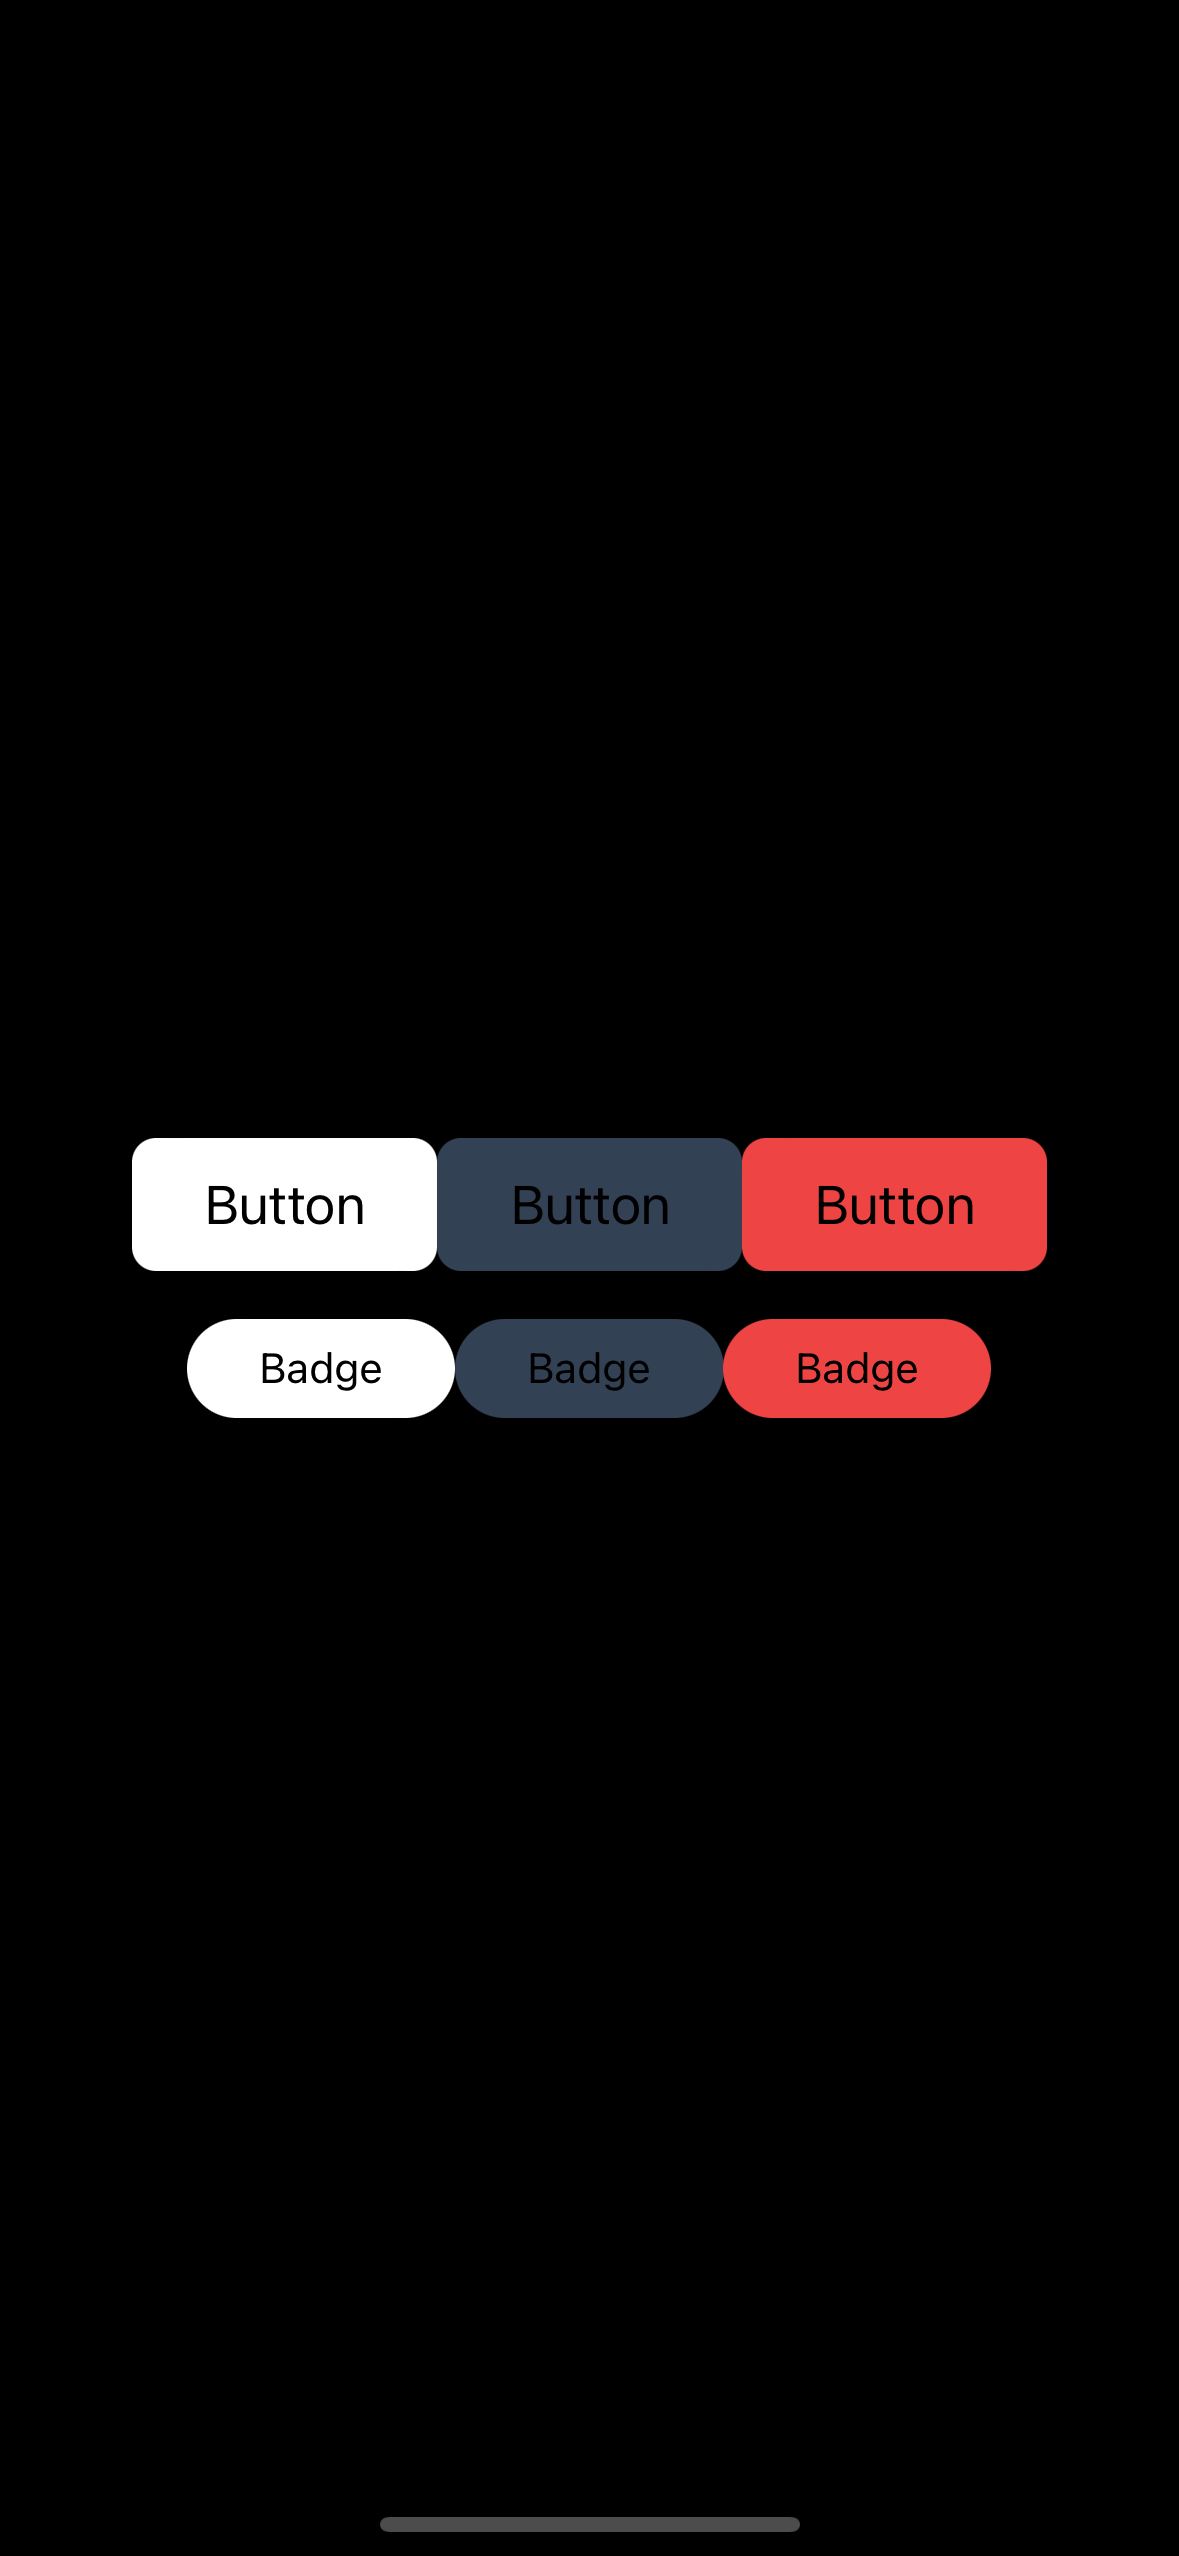
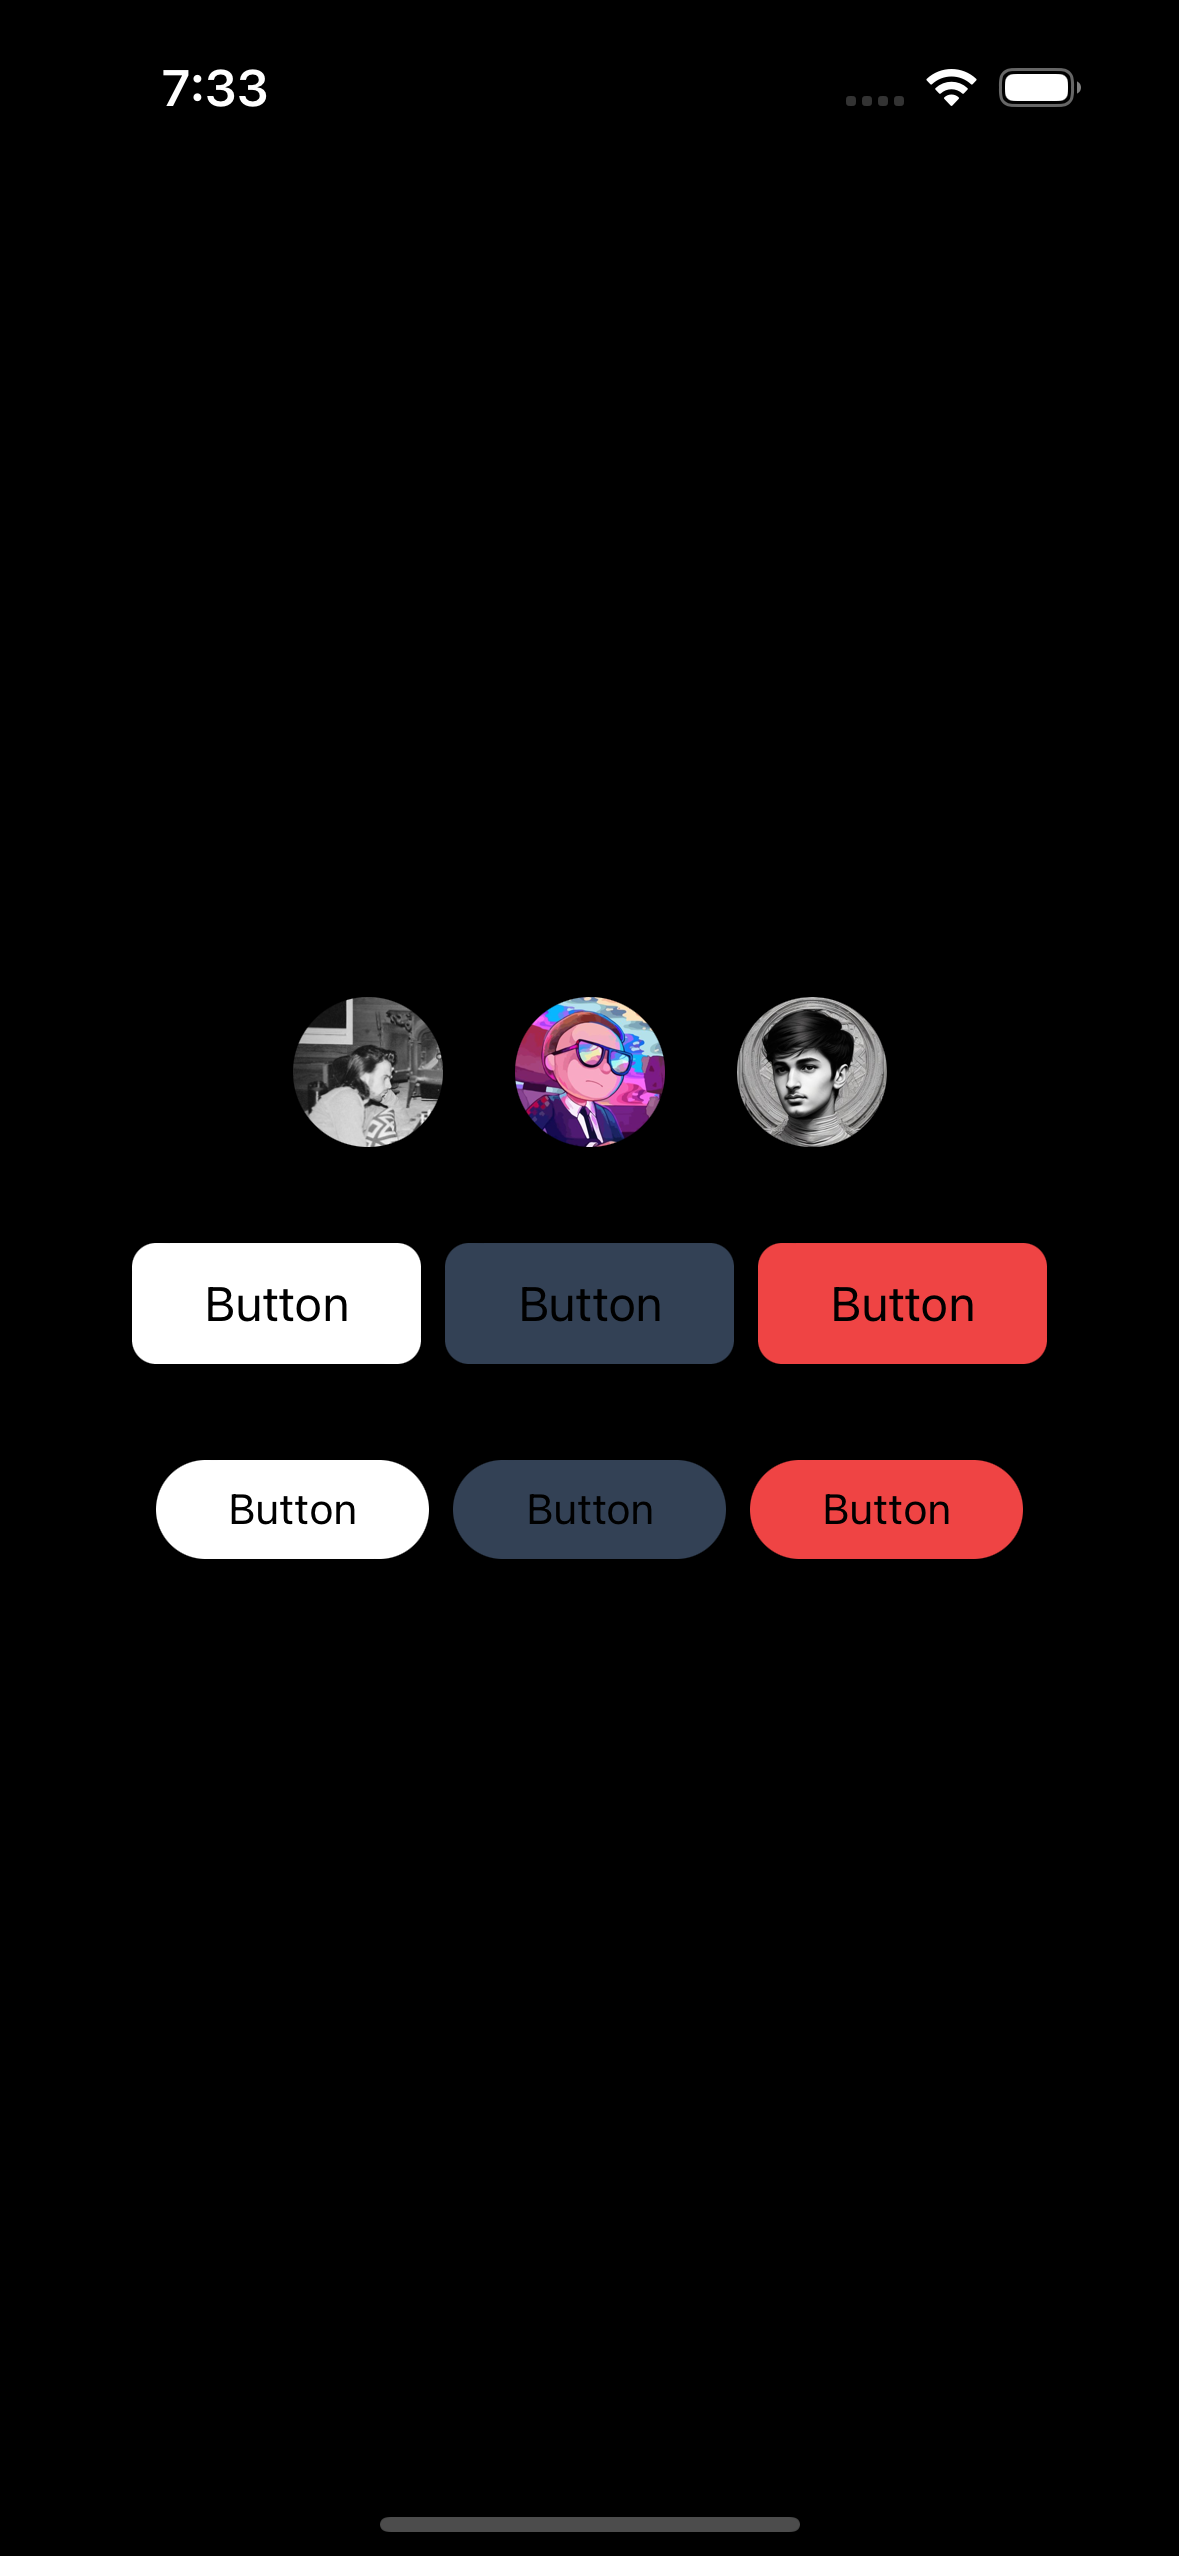
feat: simplify components

diff --git a/App.tsx b/App.tsx
@@ -1,41 +1,52 @@
 import { View } from 'react-native';
+import { styled } from 'nativewind';
 
 import Avatar from './components/Avatar';
-import CNButton from './components/CNButton';
-import CNBadge from './components/CNBadge';
-
-import { styled } from 'nativewind';
+import Button from './components/Button';
+import Badge from './components/Badge';
 
 const StyledView = styled(View);
 
 export default function App() {
   return (
-    <StyledView className="flex-1 items-center justify-center gap-y-4 dark:bg-black">
-      <StyledView className="space-x-2 flex flex-row">
-        <Avatar
-          src="https://pbs.twimg.com/profile_images/1635394124579999745/oJs7VJ3J_400x400.jpg"
-          fallback="CG"
-        />
-        <Avatar
-          src="https://pbs.twimg.com/profile_images/1593304942210478080/TUYae5z7_400x400.jpg"
-          fallback="NC"
-        />
-        <Avatar
-          src="https://pbs.twimg.com/profile_images/1603610343905058816/PsPEWMOJ_400x400.jpg"
-          fallback="SS"
-        />
-      </StyledView>
-
-      <StyledView className="flex flex-row">
-        <CNButton label="Button" />
-        <CNButton label="Button" variant="ghost" />
-        <CNButton label="Button" variant="destructive" />
+    <StyledView className="flex-1 items-center justify-center gap-y-8 dark:bg-black">
+      <StyledView className="flex flex-row space-x-4">
+        <View>
+          <Avatar
+            src="https://pbs.twimg.com/profile_images/1635394124579999745/oJs7VJ3J_400x400.jpg"
+            fallback="CG"
+          />
+        </View>
+        <View>
+          <Avatar
+            src="https://pbs.twimg.com/profile_images/1603610343905058816/PsPEWMOJ_400x400.jpg"
+            fallback="SS"
+          />
+        </View>
       </StyledView>
 
       <StyledView className="flex flex-row space-x-2">
-        <CNBadge label="Badge" />
-        <CNBadge label="Badge" variant="ghost" />
-        <CNBadge label="Badge" variant="destructive" />
+        <View>
+          <Button label="Button" />
+        </View>
+        <View>
+          <Button label="Button" variant="ghost" />
+        </View>
+        <View>
+          <Button label="Button" variant="destructive" />
+        </View>
+      </StyledView>
+
+      <StyledView className="flex flex-row space-x-2">
+        <View>
+          <Badge label="Button" />
+        </View>
+        <View>
+          <Badge label="Button" variant="ghost" />
+        </View>
+        <View>
+          <Badge label="Button" variant="destructive" />
+        </View>
       </StyledView>
     </StyledView>
   );

diff --git a/components/Button.tsx b/components/Button.tsx
@@ -1,10 +1,10 @@
-import { Text, View, useColorScheme } from 'react-native';
-import React from 'react';
+import { Text, TouchableOpacity, useColorScheme } from 'react-native';
 
 import { baseClasses, darkTheme, lightTheme } from '../lib/theme';
 import { Variant, VariantStyles } from '../lib/types';
 
-export default function CNBadge({
+// NOTE: pass classnames using https://www.nativewind.dev/api/StyledComponent
+export default function CNButton({
   label,
   variant,
 }: {
@@ -13,23 +13,24 @@ export default function CNBadge({
 }) {
   const colorScheme = useColorScheme();
 
+  // NOTE: can't use dark: here :(
   const variantStyles: VariantStyles = {
     default: colorScheme === 'light' ? lightTheme.bgColor : darkTheme.bgColor,
     ghost: 'bg-slate-700',
     destructive: 'bg-red-500',
   };
-  const textClasses =
-    colorScheme === 'light' ? lightTheme.textColor : darkTheme.textColor;
 
   return (
-    <View
+    <TouchableOpacity
       className={`
-      rounded-full
+      rounded-lg
       ${baseClasses}
       ${variant ? variantStyles[variant] : variantStyles.default}
     `}
     >
-      <Text className={`text-center ${textClasses}`}>{label}</Text>
-    </View>
+      <Text className="text-center text-base text-white dark:text-black">
+        {label}
+      </Text>
+    </TouchableOpacity>
   );
 }

diff --git a/components/Avatar.tsx b/components/Avatar.tsx
@@ -14,27 +14,21 @@ export default function Avatar({
   height = 50,
   fallback = 'AB',
 }: AvatarProps) {
-  const colorScheme = useColorScheme();
   const [hasImageError, setHasImageError] = useState(false);
-  const textColor = colorScheme === 'light' ? 'text-black' : 'text-white';
 
-  return (
-    <View>
-      {hasImageError ? (
-        <View className={`px-4 py-4 rounded-full border-white border`}>
-          <Text className={`text-base text-center ${textColor}`}>
-            {fallback}
-          </Text>
-        </View>
-      ) : (
-        <Image
-          className="rounded-full"
-          contentFit="cover"
-          source={src}
-          style={{ width, height }}
-          onError={() => setHasImageError(prevState => !prevState)}
-        />
-      )}
+  return hasImageError ? (
+    <View className="border border-black px-4 py-4 rounded-full dark:border-white">
+      <Text className="text-base text-center text-black dark:text-white">
+        {fallback}
+      </Text>
     </View>
+  ) : (
+    <Image
+      className="rounded-full"
+      contentFit="cover"
+      source={src}
+      style={{ width, height }}
+      onError={() => setHasImageError(prevState => !prevState)}
+    />
   );
 }

diff --git a/components/Badge.tsx b/components/Badge.tsx
@@ -1,11 +1,9 @@
-import { Text, TouchableOpacity, useColorScheme } from 'react-native';
-import React from 'react';
+import { Text, View, useColorScheme } from 'react-native';
 
 import { baseClasses, darkTheme, lightTheme } from '../lib/theme';
 import { Variant, VariantStyles } from '../lib/types';
 
-// NOTE: passing classnames doesn't work. Gotta work on a hack to compile them here.
-export default function CNButton({
+export default function CNBadge({
   label,
   variant,
 }: {
@@ -19,19 +17,16 @@ export default function CNButton({
     ghost: 'bg-slate-700',
     destructive: 'bg-red-500',
   };
-  // NOTE: may not be the best wa
-  const textClasses =
-    colorScheme === 'light' ? lightTheme.textColor : darkTheme.textColor;
 
   return (
-    <TouchableOpacity
+    <View
       className={`
-      rounded-lg
+      rounded-full
       ${baseClasses}
       ${variant ? variantStyles[variant] : variantStyles.default}
     `}
     >
-      <Text className={`text-center text-lg ${textClasses}`}>{label}</Text>
-    </TouchableOpacity>
+      <Text className="text-center text-white dark:text-black">{label}</Text>
+    </View>
   );
 }
